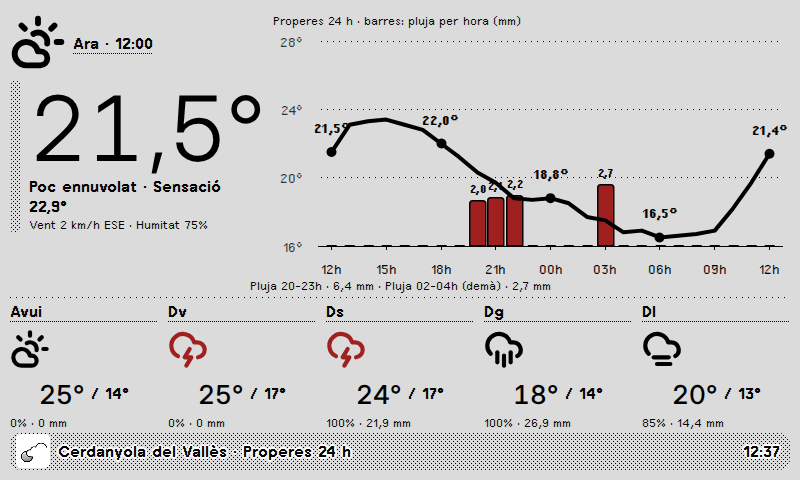
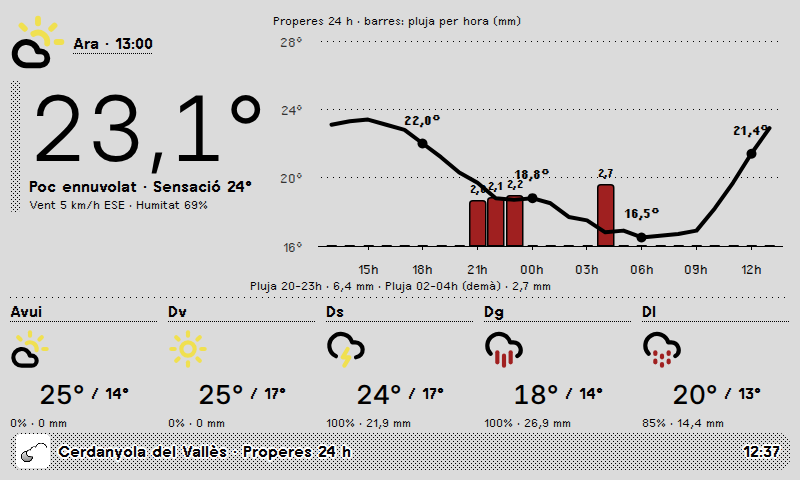
Iconos multicolor en pantallas de color: gotas y barras azules, sol y rayo amarillos
Con data-fc por trazo; en 1 bit y grises todo sigue en negro. Capturas simuladas de 4 y 6 colores.

diff --git a/README.es.md b/README.es.md
@@ -24,6 +24,14 @@ Proyecto personal y no oficial. Complementa el plugin del tiempo en directo [met
 |---|---|---|
 | ![Media pantalla horizontal](docs/screenshots/x_half_horizontal_es.png) | ![Media pantalla vertical](docs/screenshots/x_half_vertical_es.png) | ![Cuarto de pantalla](docs/screenshots/x_quadrant_es.png) |
 
+### Pantallas de 6 colores (simulación)
+
+![Vista completa](docs/screenshots/c6a_full_es.png)
+
+| Media pantalla horizontal | Media pantalla vertical | Cuarto de pantalla |
+|---|---|---|
+| ![Media pantalla horizontal](docs/screenshots/c6a_half_horizontal_es.png) | ![Media pantalla vertical](docs/screenshots/c6a_half_vertical_es.png) | ![Cuarto de pantalla](docs/screenshots/c6a_quadrant_es.png) |
+
 ### TRMNL OG 4 colores (simulación)
 
 ![Vista completa](docs/screenshots/bwry_full_es.png)
@@ -46,7 +54,7 @@ Capturas renderizadas por TRMNL. En la TRMNL X (clases `lg:`) los iconos y texto
 
 Incluye las cuatro vistas de TRMNL: pantalla completa, media horizontal, media vertical y cuarto de pantalla.
 
-En pantallas de color (p. ej. TRMNL OG de 4 colores) las barras de lluvia y el icono de tormenta se dibujan en **rojo**; en 1 bit y en grises se mantienen en negro/tramado.
+En pantallas de color (p. ej. TRMNL OG de 4 colores) las barras de lluvia y las gotas de los iconos se dibujan en **azul** (en **rojo** si la pantalla no tiene azul, como la OG de 4 colores), y el sol y el rayo en **amarillo**; el resto, en negro; en 1 bit y en grises se mantienen en negro/tramado.
 
 ## Ajustes del plugin
 

diff --git a/README.md b/README.md
@@ -24,6 +24,14 @@ Projecte personal i no oficial. Complementa el plugin del temps en directe [mete
 |---|---|---|
 | ![Mitja pantalla horitzontal](docs/screenshots/x_half_horizontal_ca.png) | ![Mitja pantalla vertical](docs/screenshots/x_half_vertical_ca.png) | ![Quart de pantalla](docs/screenshots/x_quadrant_ca.png) |
 
+### Pantalles de 6 colors (simulació)
+
+![Vista completa](docs/screenshots/c6a_full_ca.png)
+
+| Mitja pantalla horitzontal | Mitja pantalla vertical | Quart de pantalla |
+|---|---|---|
+| ![Mitja pantalla horitzontal](docs/screenshots/c6a_half_horizontal_ca.png) | ![Mitja pantalla vertical](docs/screenshots/c6a_half_vertical_ca.png) | ![Quart de pantalla](docs/screenshots/c6a_quadrant_ca.png) |
+
 ### TRMNL OG 4 colors (simulació)
 
 ![Vista completa](docs/screenshots/bwry_full_ca.png)
@@ -46,7 +54,7 @@ Captures renderitzades per TRMNL. A la TRMNL X (classes `lg:`) les icones i els 
 
 Inclou les quatre vistes de TRMNL: pantalla completa, mitja horitzontal, mitja vertical i quart de pantalla.
 
-En pantalles de color (p. ex. TRMNL OG 4 colors) la pluja de les barres i la icona de tempesta es dibuixen en **vermell**; en 1 bit i en grisos es mantenen en negre/tramat.
+En pantalles de color (p. ex. TRMNL OG 4 colors) les barres de pluja i les gotes de les icones es dibuixen en **blau** (en **vermell** si la pantalla no té blau, com la OG de 4 colors), i el sol i el llamp en **groc**; la resta, en negre; en 1 bit i en grisos es mantenen en negre/tramat.
 
 ## Ajustos del plugin
 
